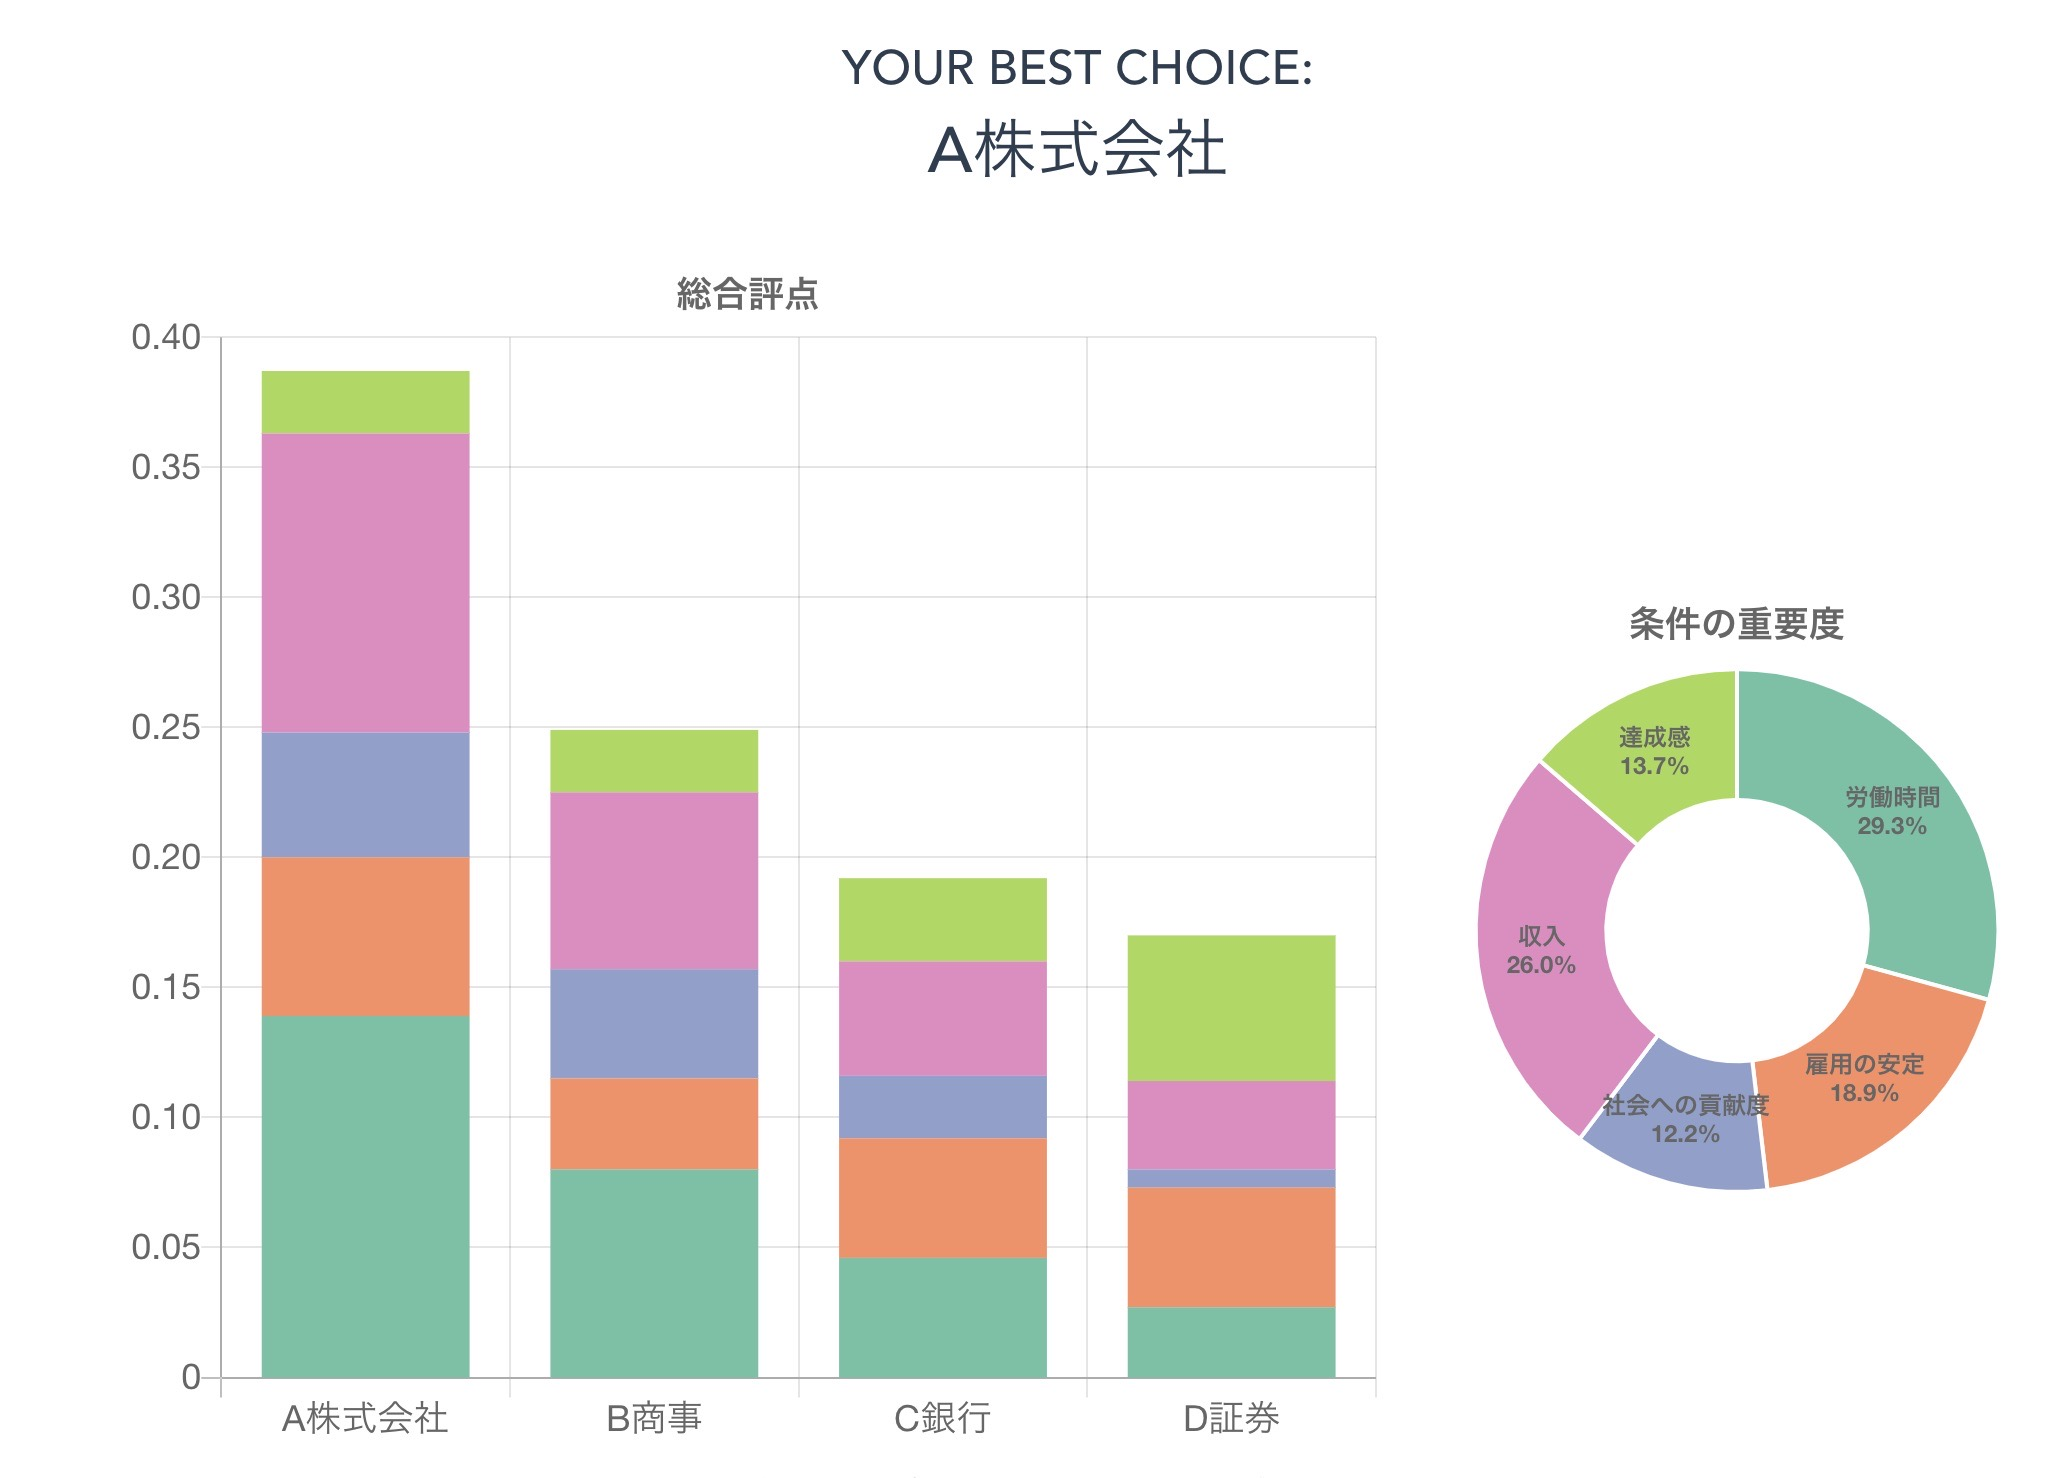
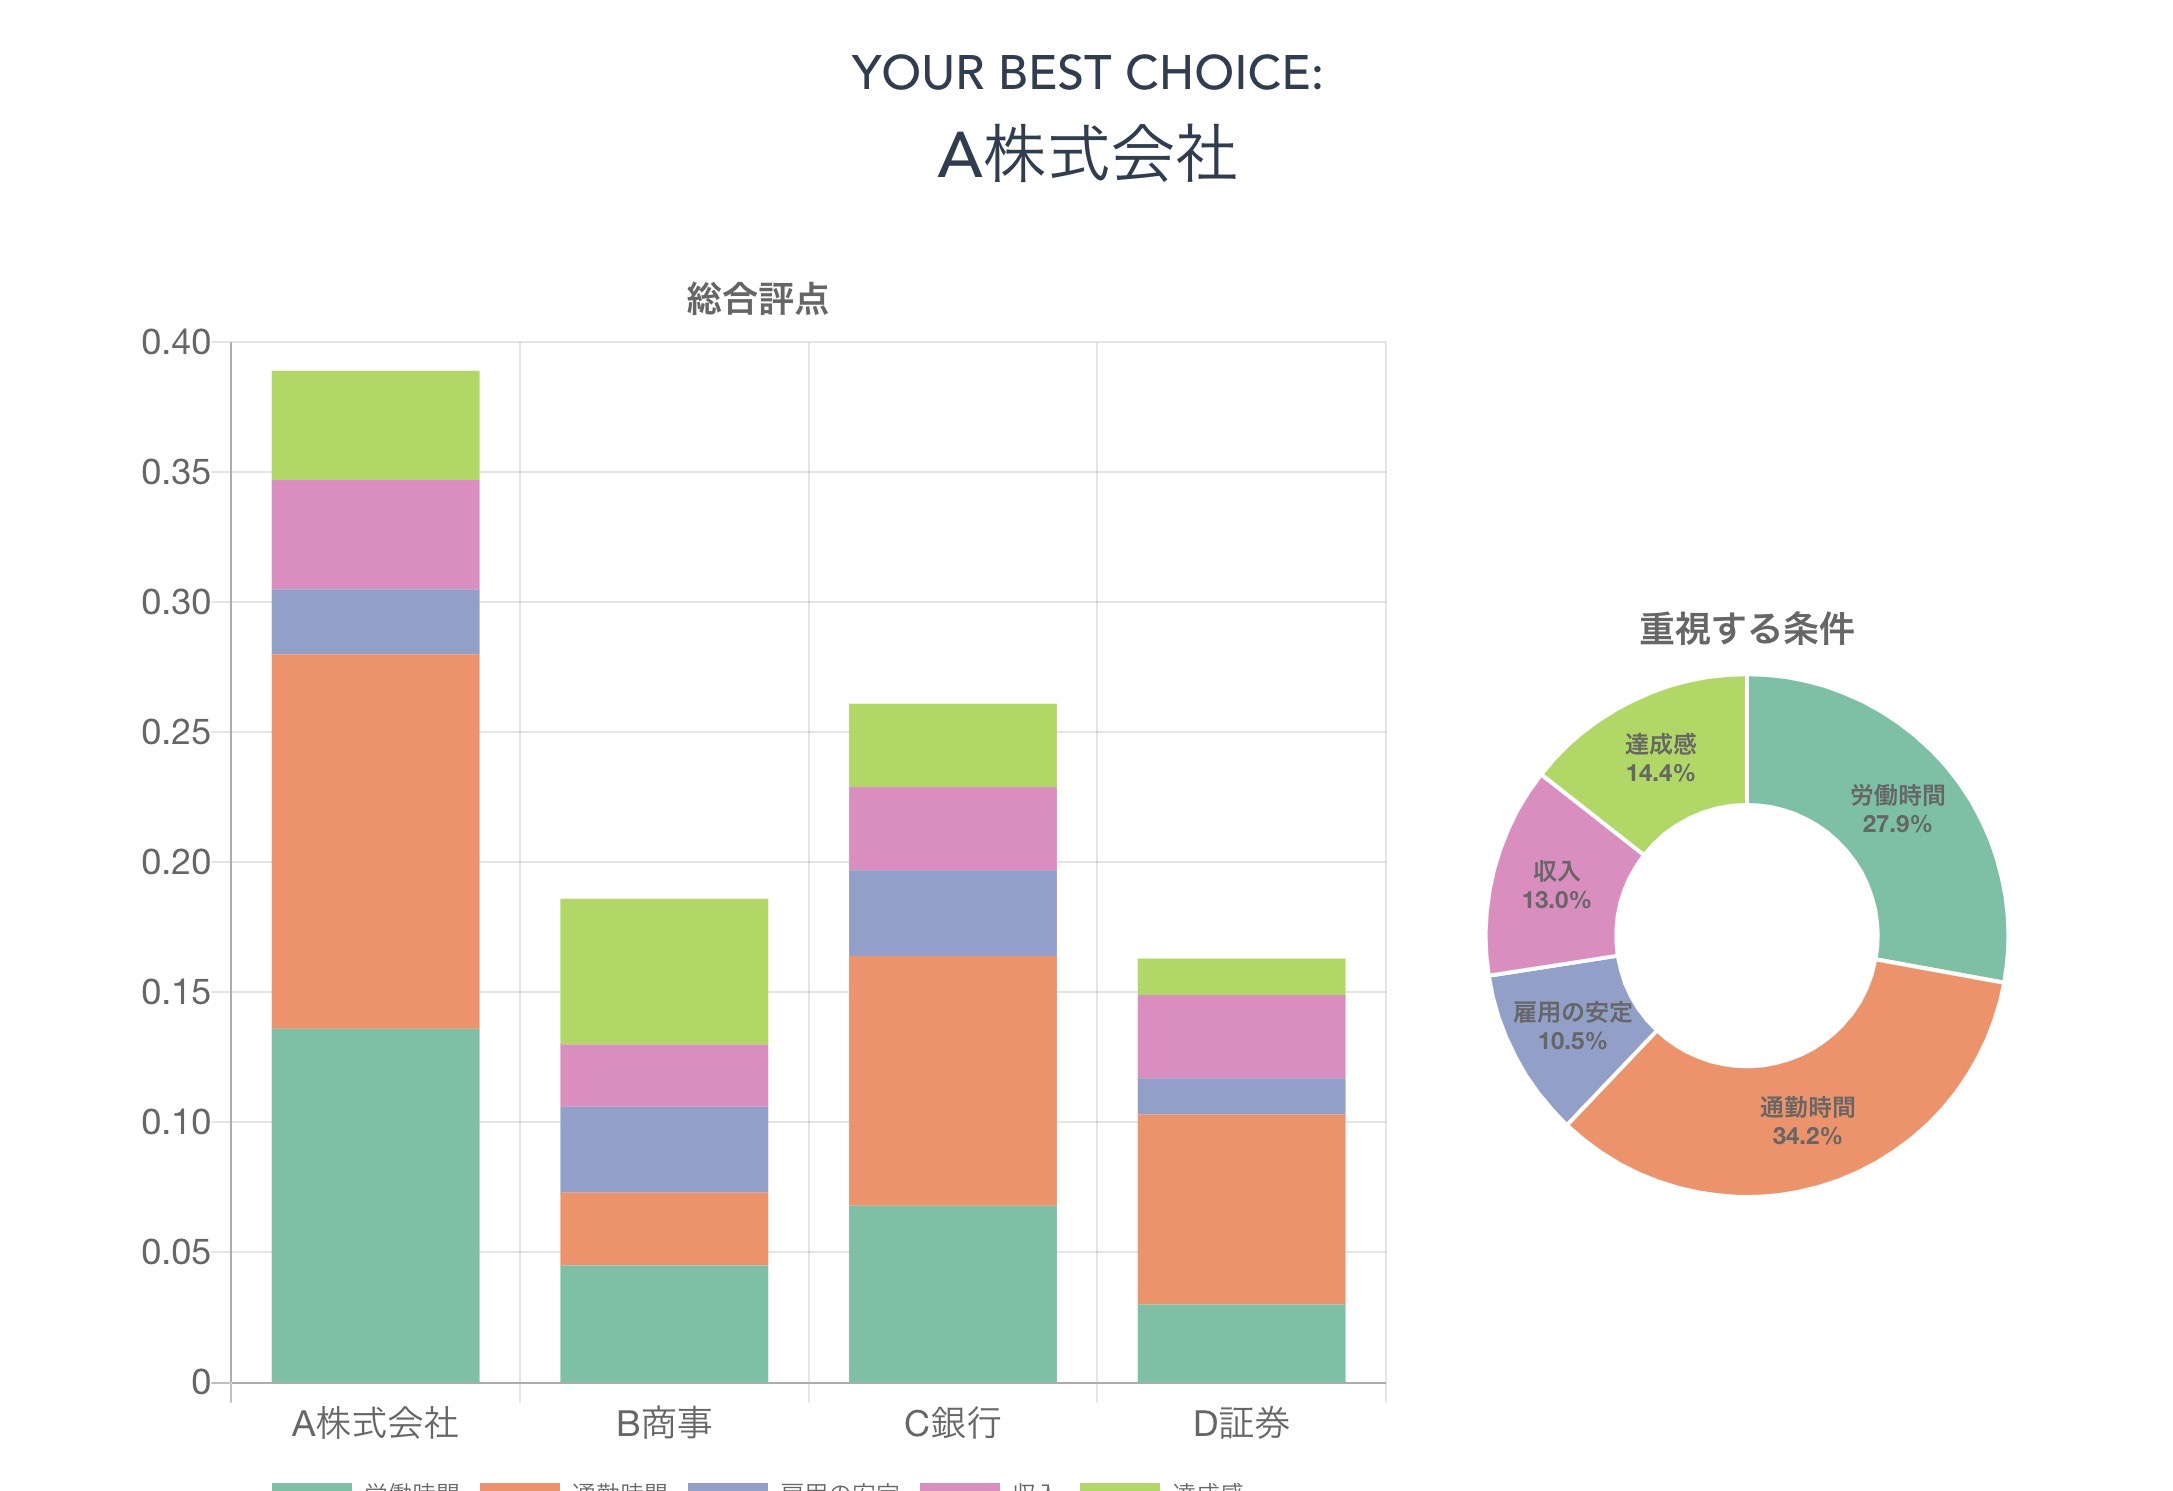
文言変更

diff --git a/app/javascript/pages/analysis/Result.vue b/app/javascript/pages/analysis/Result.vue
@@ -54,7 +54,7 @@
           >
             <DoughnutGraph
               :chart-data="doughnutChartData"
-              title="条件の重要度"
+              title="重視する条件"
             />
           </v-col>
           <v-row justify="center">
@@ -117,7 +117,7 @@
                   <DataTable
                     :headers="tableDataCri.headers"
                     :items="tableDataCri.items"
-                    title="条件の重要度"
+                    title="重視する条件"
                   />
                   <DataTable
                     v-for="(item, index) in tableDataAlt.items"

diff --git a/app/javascript/pages/MyPage.vue b/app/javascript/pages/MyPage.vue
@@ -26,7 +26,7 @@
           >
             <DoughnutGraph
               :chart-data="doughnutChartData"
-              title="条件の重要度"
+              title="重視する条件"
             />
           </v-col>
         </v-row>
